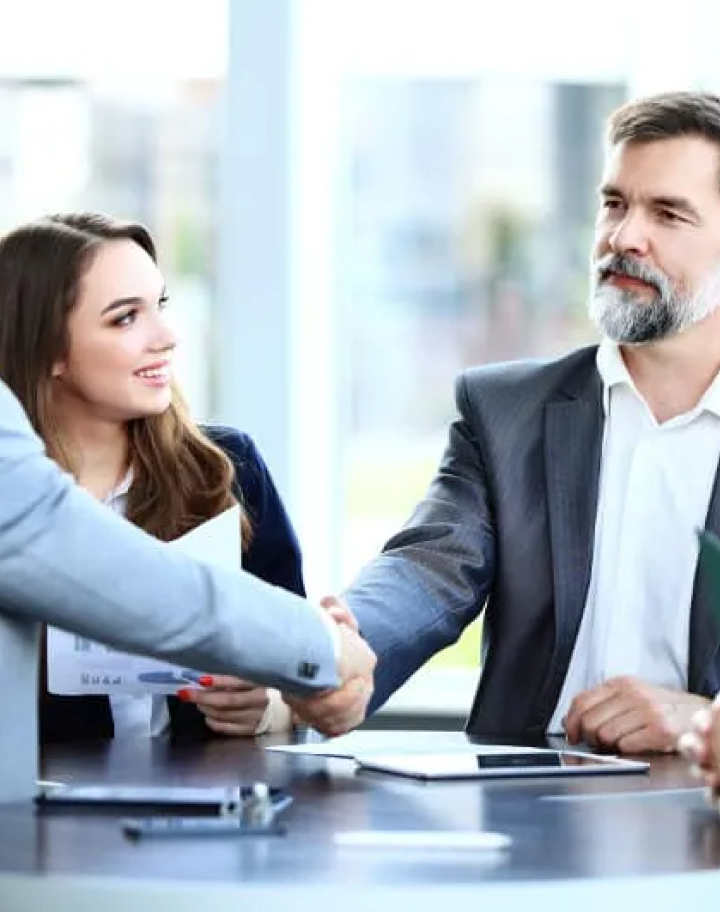
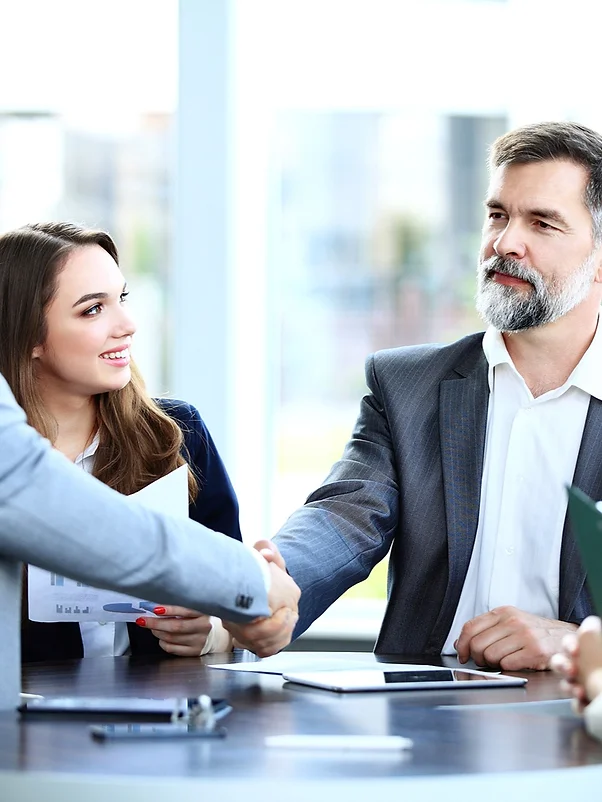
updating welcome page and starting to change the signin page

diff --git a/App/lib/connection/signinpage.dart b/App/lib/connection/signinpage.dart
@@ -12,12 +12,15 @@ class SigninPage extends MaterialPageRoute {
               extendBodyBehindAppBar: true,
               appBar: AppBar(
                 title: const Text('Inscription'),
-                backgroundColor: Color.fromARGB(0, 73, 7, 255)
+                backgroundColor: const Color.fromARGB(0, 73, 7, 255),
               ),
               body: Container(
                 decoration: const BoxDecoration(
                   gradient: LinearGradient(
-                    colors: [Color.fromARGB(255, 252, 255, 46), Color.fromARGB(255, 216, 59, 255)],
+                    colors: [
+                      Color.fromARGB(255, 255, 255, 255),
+                      Color.fromARGB(255, 255, 255, 255)
+                    ],
                     begin: Alignment.topCenter,
                     end: Alignment.bottomCenter,
                   ),
@@ -25,7 +28,7 @@ class SigninPage extends MaterialPageRoute {
                 child: Column(
                   mainAxisAlignment: MainAxisAlignment.center,
                   children: [
-                    TextFormFieldSignin(),
+                    const TextFormFieldSignin(),
                     const SizedBox(height: 24.0),
                     Buttonsignin(),
                   ],
@@ -51,6 +54,7 @@ class _TextFormFieldSigninState extends State<TextFormFieldSignin> {
   String? _username;
   String? _email;
   String? _password;
+  String? _phoneNumber;
 
   String? _validateName(String? value) {
     if (value?.isEmpty ?? false) {
@@ -59,6 +63,17 @@ class _TextFormFieldSigninState extends State<TextFormFieldSignin> {
     final RegExp nameExp = RegExp(r'^[A-Za-z ]+$');
     if (!nameExp.hasMatch(value!)) {
       return 'Veuillez entrer que des lettres et des chiffres.';
+    }
+    return null;
+  }
+
+  String? _validatePhoneNumber(String? value) {
+    if (value?.isEmpty ?? false) {
+      return 'Un numéro de téléphone est requis.';
+    }
+    final RegExp phoneExp = RegExp(r'^\d+$');
+    if (!phoneExp.hasMatch(value!)) {
+      return 'Veuillez entrer un numéro de téléphone valide.';
     }
     return null;
   }
@@ -79,13 +94,13 @@ class _TextFormFieldSigninState extends State<TextFormFieldSignin> {
             decoration: const InputDecoration(
               border: OutlineInputBorder(
                 borderRadius: BorderRadius.all(Radius.circular(25.0)),
-              ), 
+              ),
               filled: true,
               icon: Icon(Icons.person),
               labelText: 'Nom d\'utilisateur *',
             ),
             onSaved: (String? value) {
-              this._username = value;
+              _username = value;
               print('Nom=$_username');
             },
             validator: _validateName,
@@ -96,7 +111,7 @@ class _TextFormFieldSigninState extends State<TextFormFieldSignin> {
             decoration: const InputDecoration(
               border: OutlineInputBorder(
                 borderRadius: BorderRadius.all(Radius.circular(25.0)),
-              ), 
+              ),
               filled: true,
               icon: Icon(Icons.email),
               hintText: 'Votre adresse e-mail',
@@ -104,9 +119,27 @@ class _TextFormFieldSigninState extends State<TextFormFieldSignin> {
             ),
             keyboardType: TextInputType.emailAddress,
             onSaved: (String? value) {
-              this._email = value;
+              _email = value;
               print('email=$_email');
             },
+          ),
+          const SizedBox(height: 24.0),
+          // "PhoneNumber" form.
+          TextFormField(
+            decoration: const InputDecoration(
+              border: OutlineInputBorder(
+                borderRadius: BorderRadius.all(Radius.circular(25.0)),
+              ),
+              filled: true,
+              icon: Icon(Icons.phone),
+              labelText: 'Numéro de téléphone *',
+            ),
+            keyboardType: TextInputType.phone,
+            onSaved: (String? value) {
+              _phoneNumber = value;
+              print('Téléphone=$_phoneNumber');
+            },
+            validator: _validatePhoneNumber,
           ),
           const SizedBox(height: 24.0),
           // "Password" form.
@@ -116,7 +149,7 @@ class _TextFormFieldSigninState extends State<TextFormFieldSignin> {
             labelText: 'Mot de passe *',
             onFieldSubmitted: (String value) {
               setState(() {
-                this._password = value;
+                _password = value;
               });
             },
           ),
@@ -126,9 +159,9 @@ class _TextFormFieldSigninState extends State<TextFormFieldSignin> {
             decoration: const InputDecoration(
               border: OutlineInputBorder(
                 borderRadius: BorderRadius.all(Radius.circular(25.0)),
-              ), 
+              ),
               filled: true,
-                icon: Icon(Icons.check_box_outline_blank, color: Colors.transparent),
+              icon: Icon(Icons.check_box_outline_blank, color: Colors.transparent),
               labelText: 'Confirmer le mot de passe *',
             ),
             obscureText: true,
@@ -142,16 +175,18 @@ class _TextFormFieldSigninState extends State<TextFormFieldSignin> {
 // Sign In Button (with verification)
 class Buttonsignin extends StatelessWidget {
   Buttonsignin({Key? key});
-    String? _username;
-    String? _email;
-    String? _password;
+  String? _username;
+  String? _email;
+  String? _password;
+  String? _phoneNumber;
+
   @override
   Widget build(BuildContext context) {
     return ElevatedButton(
       onPressed: () {
-        if (_username != null && _email != null && _password != null) {
+        if (_username != null && _email != null && _password != null && _phoneNumber != null) {
           Fluttertoast.showToast(
-            msg: 'Connexion en cours...',
+            msg: 'Inscription en cours...',
             toastLength: Toast.LENGTH_SHORT,
             gravity: ToastGravity.BOTTOM,
             timeInSecForIosWeb: 1,

diff --git a/App/lib/connection/welcomepage.dart b/App/lib/connection/welcomepage.dart
@@ -15,30 +15,30 @@ class WelcomePage extends StatelessWidget {
         children: [
           // Background image with blur
           Container(
-            decoration: BoxDecoration(
+            decoration: const BoxDecoration(
               image: DecorationImage(
                 image: AssetImage('assets/background_welcomepage.png'),
-                fit: BoxFit.cover, // Cover ensures the image covers the entire container
-                alignment: Alignment.center,
-              ),
-            ),
-            child: BackdropFilter(
-              filter: ImageFilter.blur(sigmaX: 2, sigmaY: 2),
-              child: Container(
-                color: const Color.fromARGB(255, 255, 255, 255).withOpacity(0.1),
+                fit: BoxFit.contain, // Cover ensures the image covers the entire container
+                alignment: Alignment.topCenter,
               ),
             ),
             width: double.infinity, // Ensure the container takes up the entire width of the screen
-            height: double.infinity, // Ensure the container takes up the entire height of the screen
+            height: double.infinity,
+            child: BackdropFilter(
+              filter: ImageFilter.blur(sigmaX: 0, sigmaY: 0),
+              child: Container(
+                color: const Color.fromARGB(255, 255, 255, 255).withOpacity(0.1),
+              ),
+            ), // Ensure the container takes up the entire height of the screen
           ),
           // Gradient overlay at the bottom
           Container(
             decoration: BoxDecoration(
               gradient: LinearGradient(
-                begin: Alignment.bottomCenter,
+                begin: Alignment.center,
                 end: Alignment.topCenter,
                 colors: [
-                  const Color.fromARGB(255, 255, 255, 255).withOpacity(0.7),
+                  const Color.fromARGB(255, 255, 255, 255).withOpacity(0.9),
                   Colors.transparent,
                 ],
               ),
@@ -49,8 +49,25 @@ class WelcomePage extends StatelessWidget {
           // Centered content
           Center(
             child: Column(
-              mainAxisAlignment: MainAxisAlignment.end,
+              mainAxisAlignment: MainAxisAlignment.start,
               children: [
+                const SizedBox(height: 100.0),
+                const Text(
+                  'Bienvenue sur',
+                  style: TextStyle(
+                    fontSize: 24,
+                    color: Color.fromARGB(255, 0, 0, 0),
+                  ),
+                ),
+                const Text(
+                  'Adopte 1 Candidat',
+                  style: TextStyle(
+                    fontSize: 24,
+                    fontWeight: FontWeight.bold,
+                    color: Color.fromARGB(255, 0, 0, 0),
+                  ),
+                ),
+                const Spacer(),
                 Container(
                   width: 500,
                   height: 300,
@@ -66,7 +83,7 @@ class WelcomePage extends StatelessWidget {
                           style: ElevatedButton.styleFrom(
                             backgroundColor: Colors.white,
                             foregroundColor: Colors.black,
-                            shadowColor: Colors.transparent,
+                            shadowColor: Color.fromARGB(255, 0, 0, 0),
                             elevation: 5,
                             shape: RoundedRectangleBorder(borderRadius: BorderRadius.circular(32.0)),  
                           ),
@@ -88,7 +105,7 @@ class WelcomePage extends StatelessWidget {
                           ),
                           child: const Text(
                             'Se connecter',
-                            style: TextStyle(fontSize: 18, fontWeight: FontWeight.bold, color: Color.fromARGB(255, 35, 35, 35)),
+                            style: TextStyle(fontSize: 18, fontWeight: FontWeight.bold, color: Color.fromARGB(255, 104, 104, 104)),
                           ),
                         ),
                       ),
